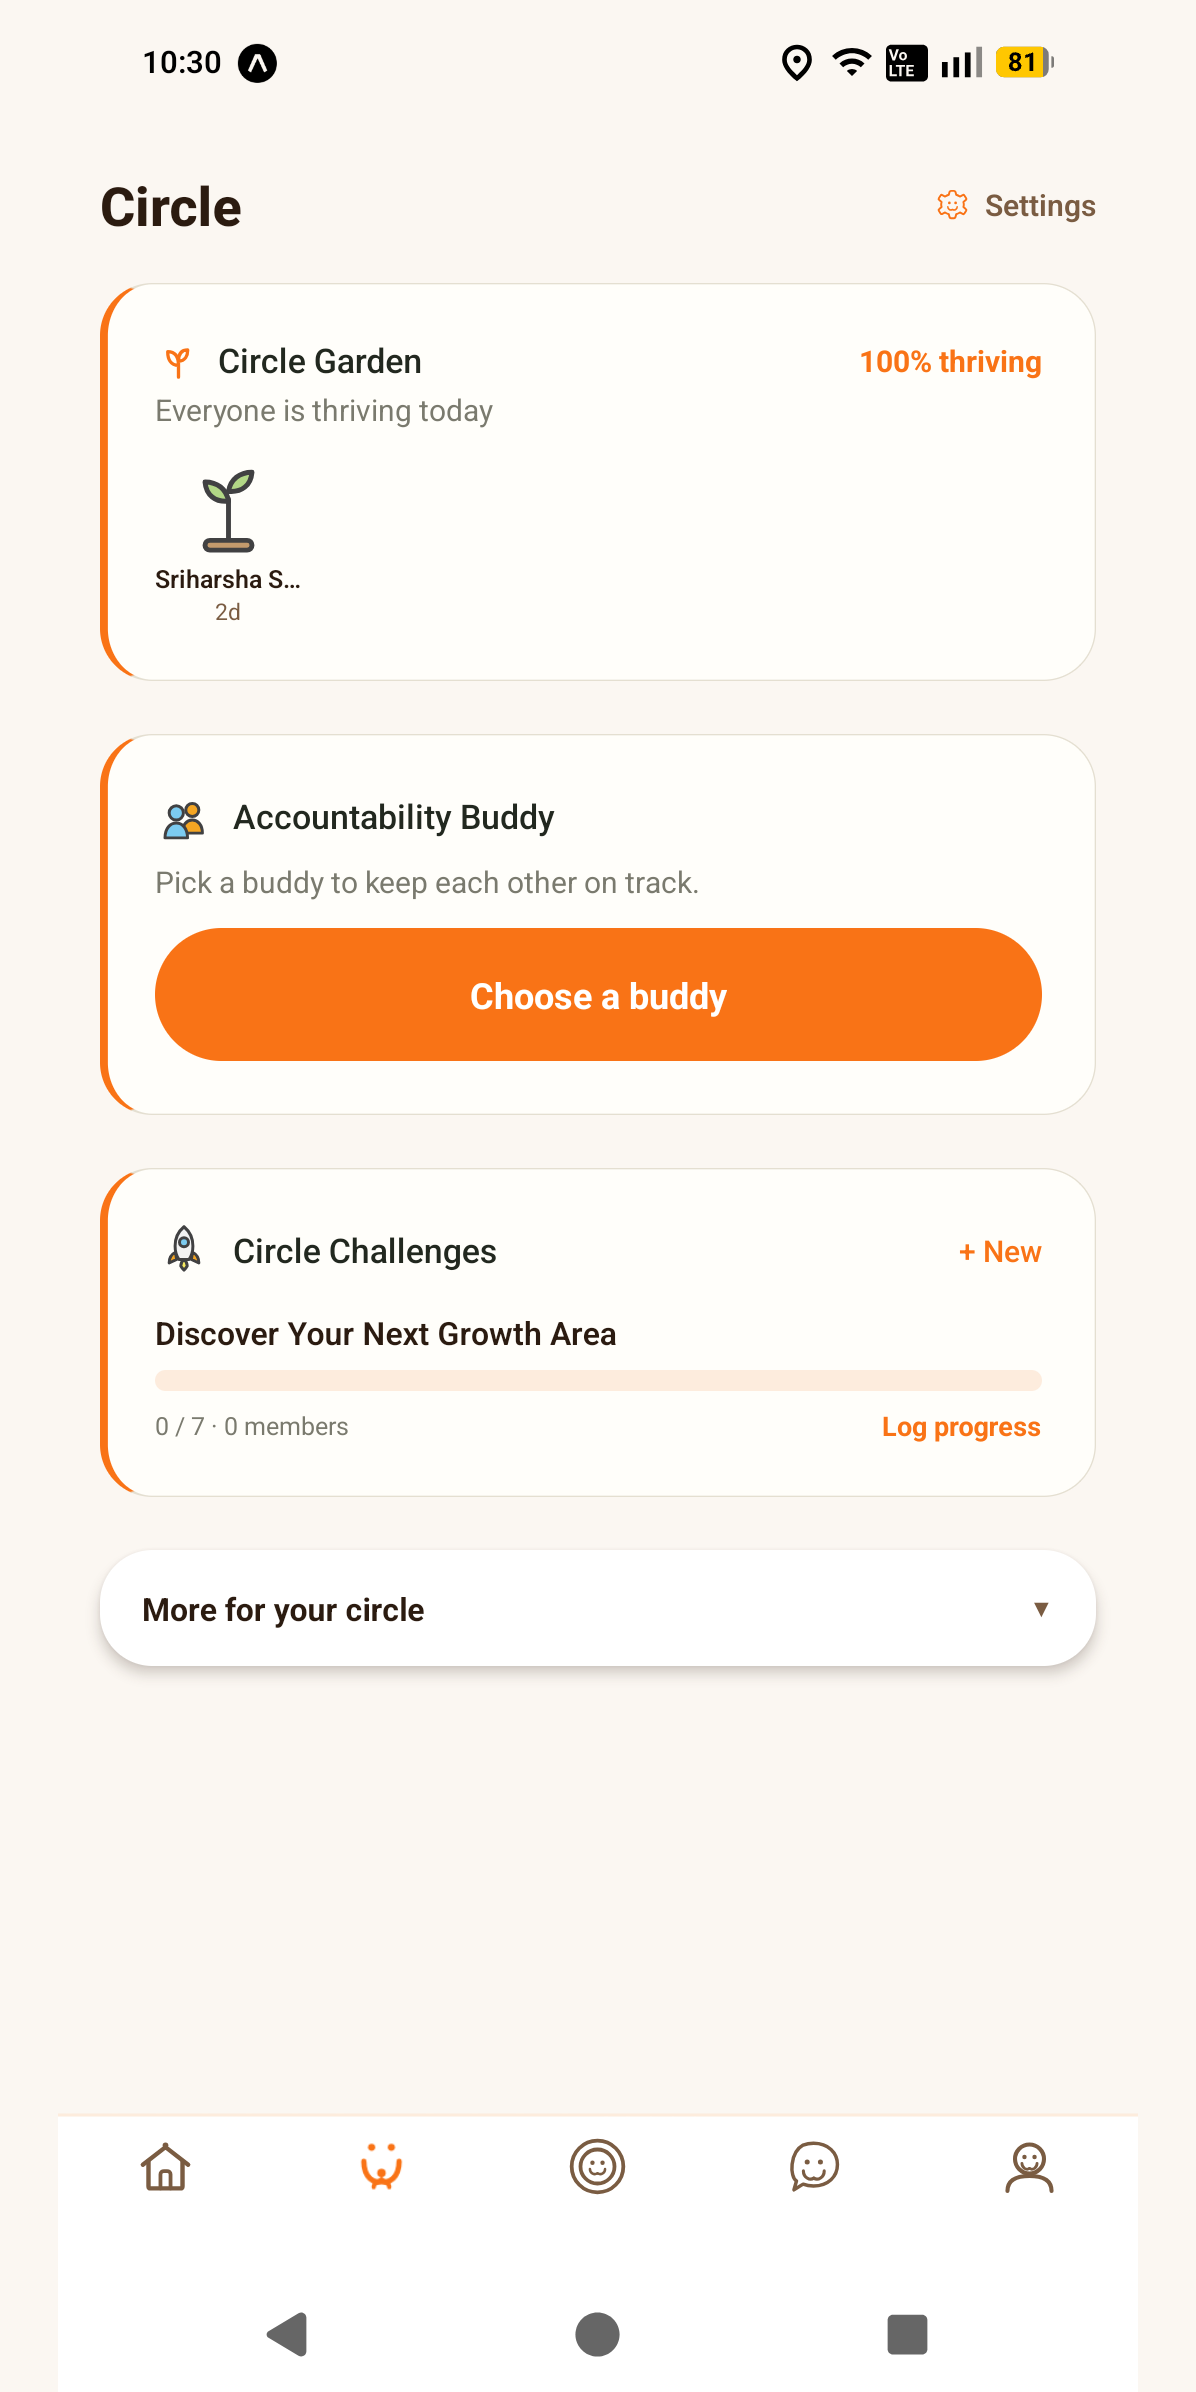
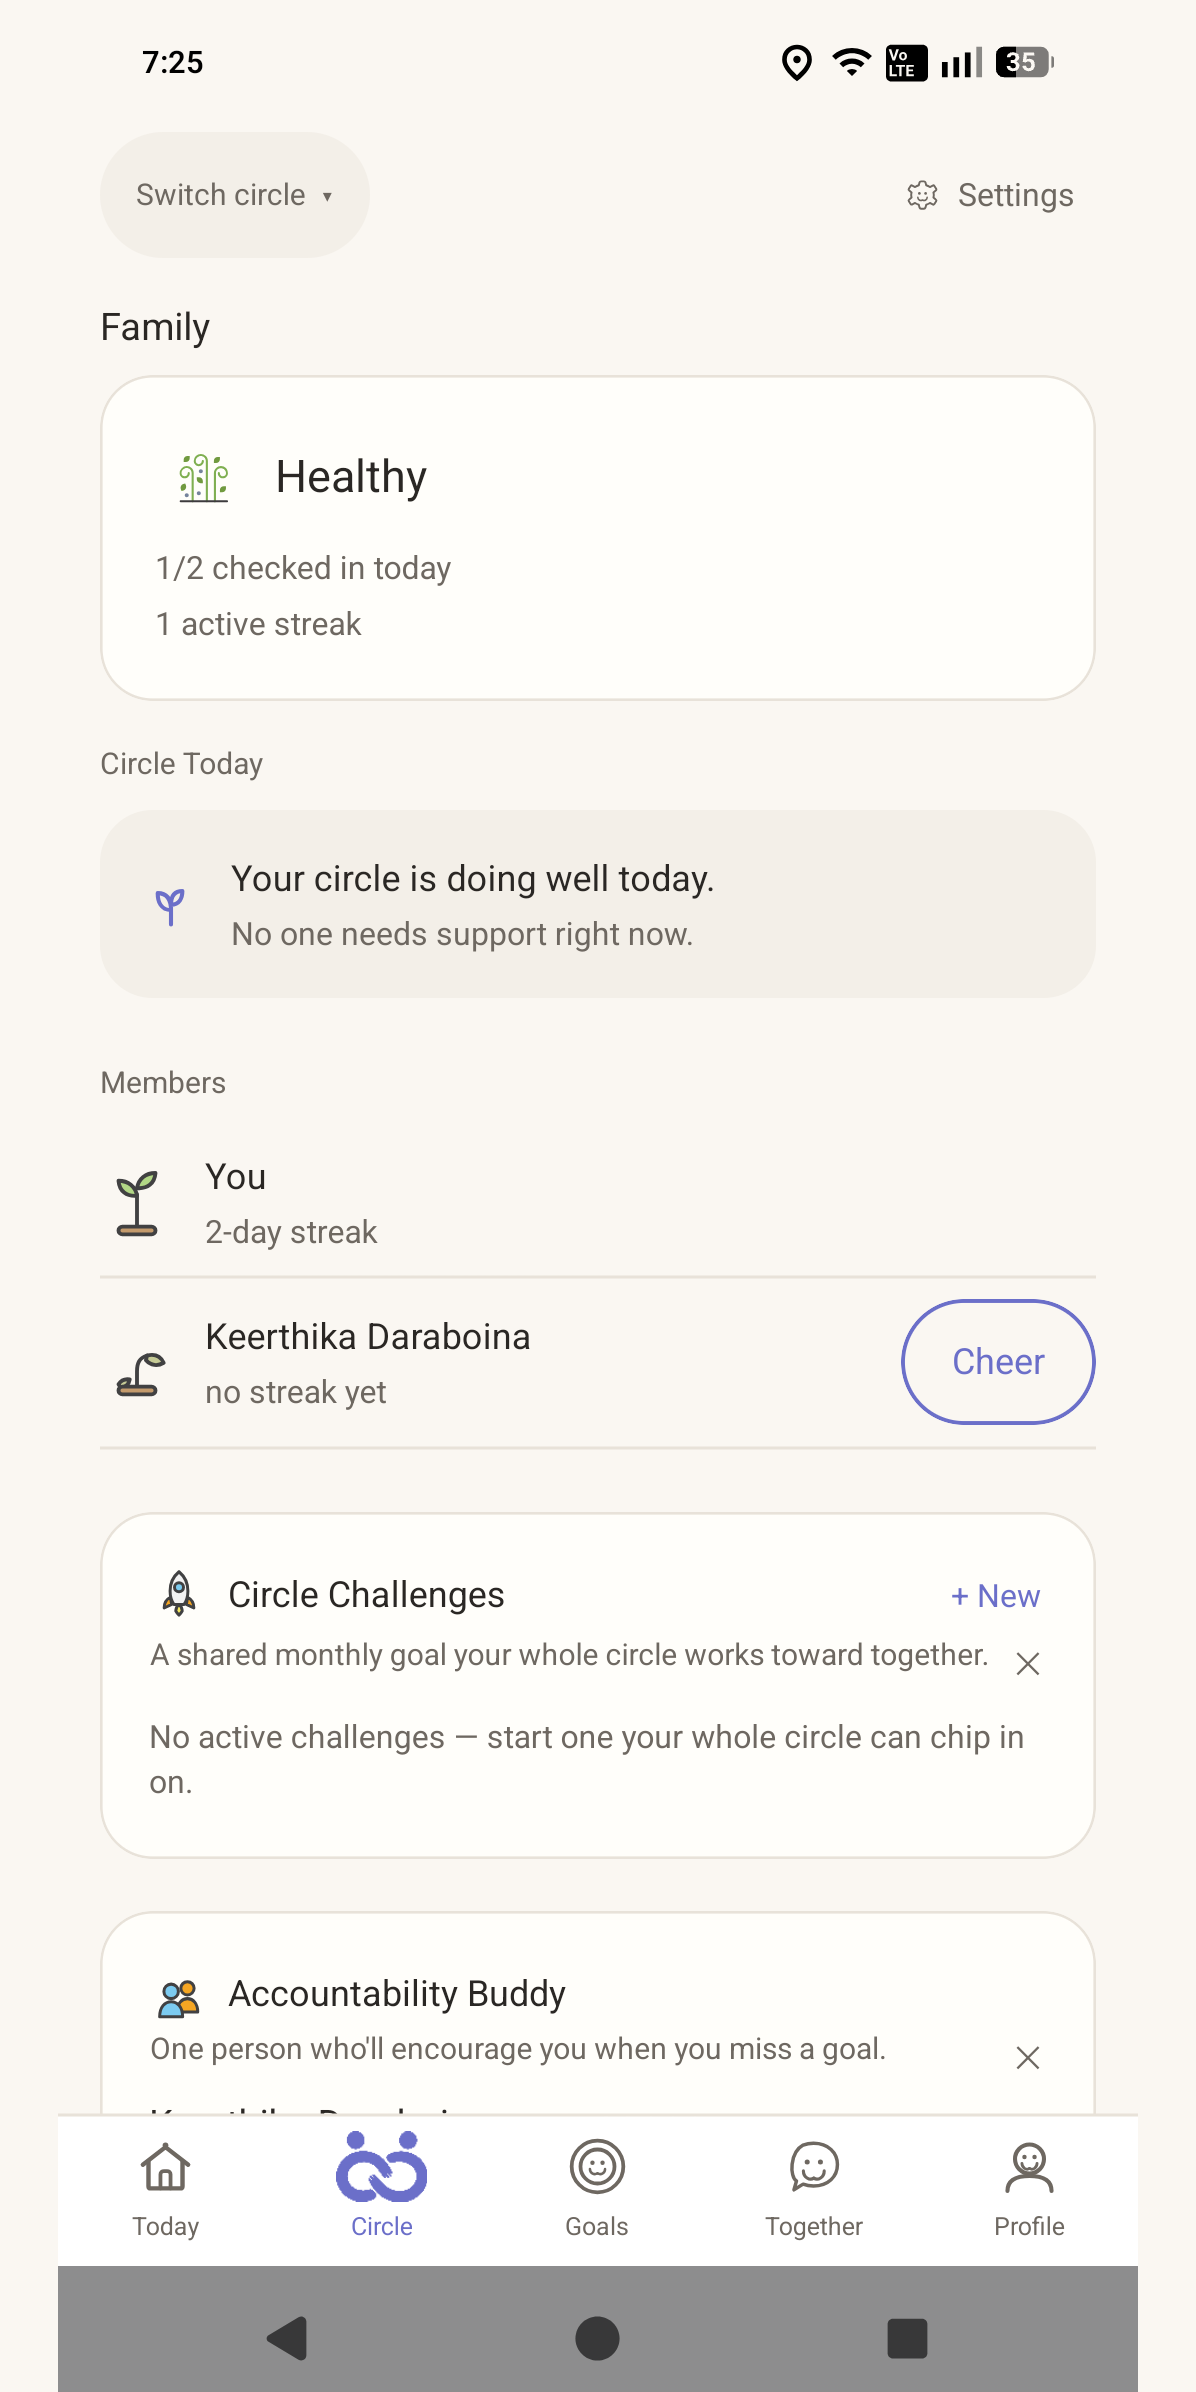
Refresh the store screenshots and fix the Together rename
The listing screenshots were taken 29 Jul, 135 commits ago - before the
one-accent redesign flipped the app to light mode with the dusk accent.
Sampling a content pixel of the old set returns rgb(230,103,15), the old
ember orange, so they showed an app that no longer exists.

Replaced with captures from the current build, padded 1080 -> 1196 wide
so the 2392px height lands exactly on Google's 2:1 aspect limit. The pad
colour is #FAF7F2, the background token, so it reads as one canvas rather
than as letterboxing.

The Connection tab is labelled "Together" in the app (MainTabs.tsx:142)
while the route keeps its old name. The store description still called it
Connection, which is user-facing and wrong; the content-rating notes did
too. Both fixed. The screenshot filename stays connection.png, matching
the route, with a note in the README saying why.

diff --git a/store-listing/listing-copy.md b/store-listing/listing-copy.md
@@ -53,7 +53,7 @@ WHAT'S INSIDE
 • Today — your one clear answer to "what should I do right now": your circle's health at a glance, today's goals, and what your circle's been up to.
 • Circle — every member's garden, side by side. Pair up with an accountability buddy and take on challenges together.
 • Goals — set a target, log progress, keep the streak alive. Step goals can track automatically through Health Connect, so a walk counts without you logging anything.
-• Connection — one daily prompt for the whole circle, answers hidden until you post your own. Plus two-minute games for lighter days.
+• Together — one daily prompt for the whole circle, answers hidden until you post your own. Plus two-minute games for lighter days.
 • Profile — your streaks, your badges, your story. Mood check-ins that take ten seconds. Future Letters your circle can never read.
 • Nudges — one-tap cheers when a friend's on a streak or gone quiet. A small push, never a lecture.
 

diff --git a/store-listing/content-rating-questionnaire.md b/store-listing/content-rating-questionnaire.md
@@ -20,7 +20,7 @@ These answers reflect what's actually in the app; expected result is **Everyone 
 
 **Controlled substances** — No.
 
-**Gambling themes / simulated gambling / real gambling** — No to all. (The "games" in Connection are prompt/poll party games — no wagering, no casino mechanics.)
+**Gambling themes / simulated gambling / real gambling** — No to all. (The "games" in Together are prompt/poll party games — no wagering, no casino mechanics.)
 
 **Crude humor** — No.
 

diff --git a/assets/screenshots/README.md b/assets/screenshots/README.md
@@ -4,7 +4,8 @@ picks them up automatically, no code changes needed):
 - `today.png`
 - `circle.png`
 - `goals.png`
-- `connection.png`
+- `connection.png` (the tab is labelled "Together" in the app; the filename
+  follows the internal route name, which is still `Connection`)
 - `profile.png`
 
 A raw phone screenshot works fine (displayed at 9:19.5 aspect ratio, cropped to fit).
